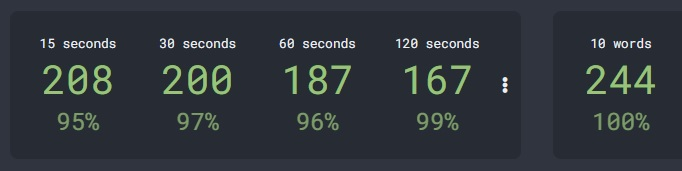
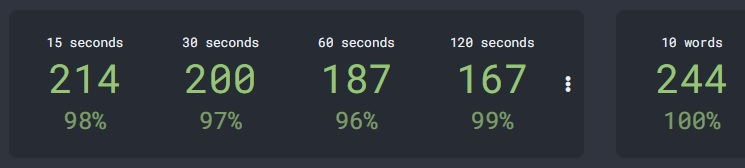
Add files via upload

diff --git a/index.html b/index.html
@@ -15,12 +15,21 @@
     旧ブログ（タイピング記事など）→<a href="https://ameblo.jp/melotype" target="_blank">A fan of the Dvorak layout</a>
     <br>
 
+    <hr>
+
     <h3>タイピング記録一覧（項目クリックで開きます）</h3>
 
     <details>
         <summary><b>- タイプウェル英単語</b></summary>
         <img src="img/タイプウェル英単語記録.jpg"><br>
+        　・2023/05/15 基本英単語更新 25.362(ZF) -> 25.253(ZF)<br>
+        　・2023/05/15 Q-Z更新 27.100(ZG) -> 26.693(ZG)<br>
         　・2023/05/12 Q-Z更新 27.359(ZG) -> 27.100(ZG)<br>
+    </details>
+
+    <details>
+        <summary><b>- タイプウェル憲法E</b></summary>
+        <img src="img/タイプウェル憲法E.jpg"><br>
     </details>
 
     <details>
@@ -40,13 +49,11 @@
     <details>
         <summary><b>- monkeytype</b></summary>
         <img src="img/monkeytype記録.jpg"><br>
+        　・2023/05/16 15s更新 208wpm -> 214wpm
     </details>
 
     - 10fastfingers（追加予定）<br>
     - Intersteno（本番記録、練習記録）（追加予定）
-
-
-
 </body>
 
 </html>

diff --git a/css/style.css b/css/style.css
@@ -6,6 +6,12 @@ body {
 
 }
 
+hr {
+    height : 1px;
+    background-color : #2b2b2b;
+    border : none;
+}
+
 img {
     margin : 20px;
 }
